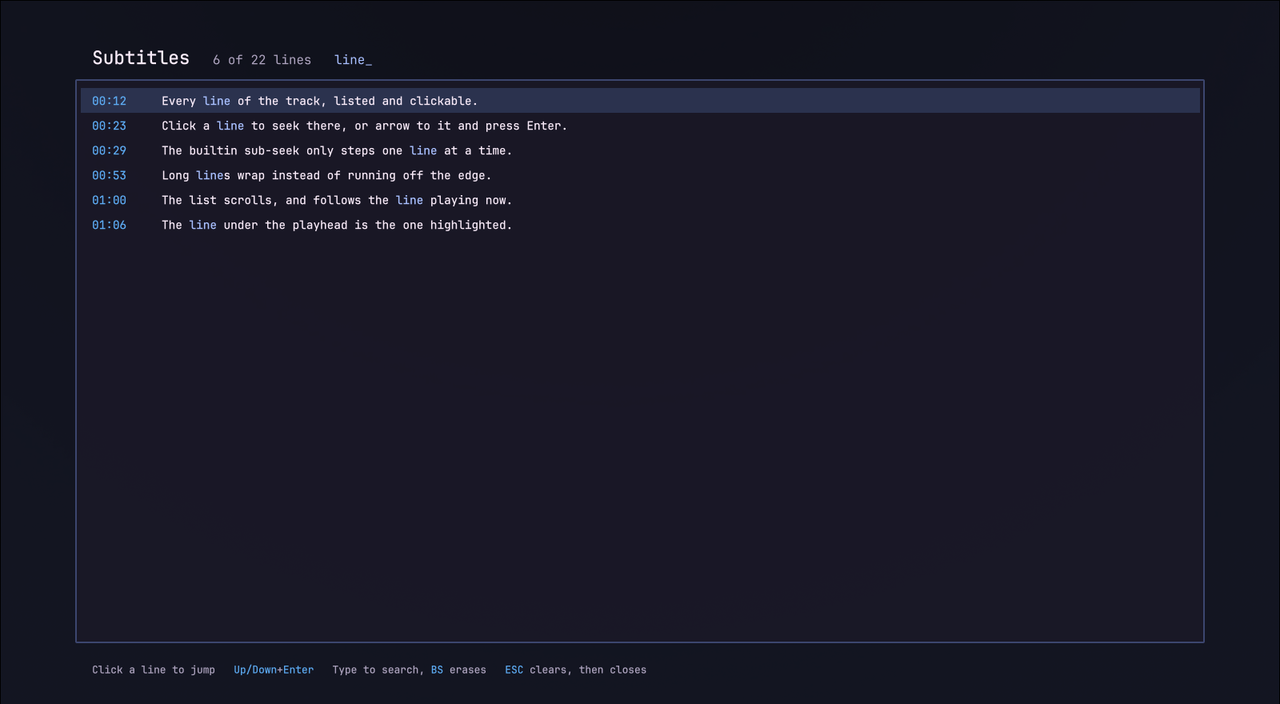
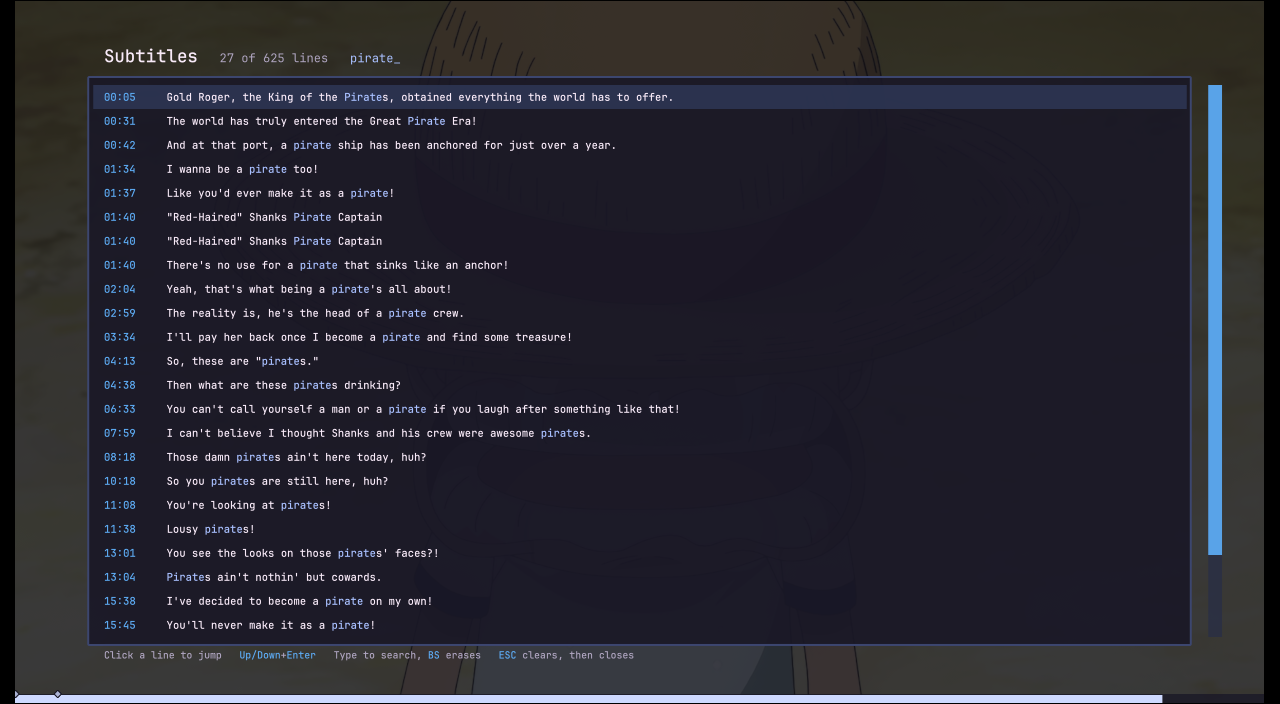
docs: retake the screenshots and fix the script credits
Every shot predated the three column list, the themed messages and the
SHIFT+ keys, so all of them were retaken against the same episode, and
the menu figures against the flat background they were framed on
originally. Two are new: the hover panel, which nothing showed before,
and the OSD message, whose section had no picture at all despite the
look being the point.

The credits were wrong. restart-mpv and watched-folder were listed as
mine inside the table of scripts I did not write; skip-chapters was
marked unattributed although it starts in this repo's own history; and
pause-indicator was credited whole to CogentRedTester when only the idea
survives, the drawing having been rewritten around the uosc icon font.
Those four moved up, so the list is ten and ten.

What "carries local patches" meant was overstated. Formatting both sides
with the same stylua settings collapses most of the apparent difference:
sub-select is byte identical to upstream, and only thumbfast, sub-export
and skip-to-silence really differ. The table now names the change per
script, and reactive_vf_bypass_keyword, which was missing entirely, is
listed.

The animated demo is dropped for now rather than left stale.

diff --git a/README.md b/README.md
@@ -1,6 +1,6 @@
 # MPV
 
-My mpv setup: player settings, a keybind map I keep expanding, a [uosc][UOSC] theme, and the script selection I actually use.
+My mpv setup: player settings, a keybind map I keep expanding, a [uosc][UOSC] theme, and the scripts I keep loaded.
 
 | Playing, with the interface showing |
 | ----------------------------------- |
@@ -23,13 +23,13 @@ Moonlight: dark, low-contrast, the interface kept thin, set in [`uosc.conf`][uos
 | `success`         | `#49ef95` | Positive feedback              |
 | `error`           | `#ca5f71` | Failures                       |
 
-Shape matters as much: `timeline_style=bar` at 20px, `top_bar=no-border`, `border_radius=6`, `font_scale=1.18`, `font_bold=yes`. Most surfaces sit under full opacity; the title is transparent, so nothing floats over the video. Menus run at `submenu=1` opacity, so every open level reads as one surface rather than fading into the background.
+Shape matters as much: `timeline_style=bar` at 20px, `top_bar=no-border`, `border_radius=6`, `font_scale=1.18`, `font_bold=yes`. Most surfaces stop short of full opacity, and the title bar is fully transparent, so nothing floats over the video. Menus run at `submenu=1`, so every open level reads as one surface instead of fading back.
 
 | At rest: the minimized timeline alone | Woken: top bar, controls, timeline |
 | ------------------------------------- | ---------------------------------- |
 | ![Minimized timeline][shot_minimal]   | ![Full interface][shot_interface]  |
 
-`TAB` toggles the interface as a whole, `SHIFT+TAB` toggles that last bar. The timeline colours the ranges it recognises, so the OP, the ED and the preview read as bands rather than as chapter ticks: `chapter_ranges` sets those colours, with `chapter_range_patterns` teaching it the shorthand titles releases actually use.
+`TAB` toggles the whole interface, `SHIFT+TAB` just that last bar. The timeline colours the ranges it recognises, so the OP, the ED and the preview read as bands rather than chapter ticks: `chapter_ranges` sets the colours, `chapter_range_patterns` teaches it the shorthand titles releases use.
 
 ### The menu patch
 
@@ -44,7 +44,7 @@ The folder is gitignored and uosc's updater overwrites it, so the change lives a
 
 ## Install
 
-Copy `portable_config/` next to `mpv.exe`. Two folders you supply.
+Copy `portable_config/` next to `mpv.exe`. You supply the two folders marked below.
 
 ```mermaid
 %%{init: {"theme": "base", "themeVariables": {"darkMode": true, "background": "#0d0e17", "textColor": "#f8eaf8", "treeView": {"labelColor": "#f8eaf8", "lineColor": "#30363d", "iconColor": "#8b949e"}}}}%%
@@ -64,11 +64,7 @@ portable_config/
 
 ## Scripts I wrote
 
-Five of them, all on the Moonlight palette.
-
-| The keyboard map and the subtitle index, in motion |
-| -------------------------------------------------- |
-| ![Keyboard map and subtitle index][shot_map_gif]   |
+Ten, the interface ones all on the Moonlight palette.
 
 ### [`keybind-visualizer.lua`][keybind_visualizer]
 
@@ -76,13 +72,17 @@ An on-screen keyboard on `F6`. Hover a key to see what it does; `ESC` closes it.
 
 Bindings are read live from `input-bindings`, so it reflects your `input.conf` plus the builtins, with no list to maintain.
 
-| Searching every binding for `sub`           |
-| ------------------------------------------- |
-| ![Keyboard map, searching][shot_map_search] |
+| Searching every binding for `sub`           | Hovering a single key                     |
+| ------------------------------------------- | ------------------------------------------- |
+| ![Keyboard map, searching][shot_map_search] | ![Keyboard map, hovering][shot_map_hover] |
 
-Just type to search them. The query matches key names, combos, descriptions and commands. Each typed word matches as a substring, as a gapped run inside a single word (`sbdly` finds `sub-delay`) or as word initials, so a scatter of letters never lights up half the keyboard. Typed characters are picked out inside each description. `BS` erases, `ESC` clears the query and then closes.
+Type to search. The query matches key names, combos, descriptions and commands. Each word matches as a substring, as a gapped run inside one word (`sbdly` finds `sub-delay`) or as word initials, so a scatter of letters never lights up half the keyboard. Matches are picked out inside each description. `BS` erases, `ESC` clears the query and then closes.
 
-A `≡` badge marks anything that also lives in the uosc menu: in the corner of the key, and beside the binding's own line in the panel. Those entries describe themselves, so the panel shows the description rather than the raw command.
+Results come as three columns: the combo, what it runs, and what that means. The command column drops the `no-osd` and `expand-properties` prefixes and the `osd_theme` message, and a binding running several commands shows the first with a `(+2)` for the rest.
+
+Descriptions come from the trailing `#` comment on each `input.conf` line, which mpv hands back through `input-bindings`. A uosc menu line describes itself after `?` instead, since its `#!` comment already holds the menu path. Only mpv's builtins, which ship without comments, come through blank.
+
+A `≡` badge marks anything that also lives in the uosc menu: in the corner of the key, and beside the binding's own line in the panel.
 
 mpv cannot detect the OS keyboard layout, so layouts live in a JSON file. Pick `ansi`, `iso`, `abnt2`, `jis`, or add your own.
 
@@ -93,11 +93,11 @@ mpv cannot detect the OS keyboard layout, so layouts live in a JSON file. Pick `
 
 ### [`sub-seek.lua`][sub_seek]
 
-A fullscreen, clickable index of every subtitle line with timestamps, on `F4`. Click a line, or arrow to it and press Enter. Unlike the builtin sub-seek, you jump anywhere instead of stepping.
+A fullscreen, clickable index of every subtitle line with timestamps, on `F4`. Click a line, or arrow to it and press Enter. The builtin sub-seek steps one line at a time; this jumps anywhere.
 
-Type to filter it down: every word typed has to appear in the line, so `long line` keeps only those carrying both, and the hits are picked out where they sit. `BS` erases, `ESC` clears the query and then closes.
+Type to filter: every word has to appear in the line, so `long line` keeps only those carrying both, and the hits are picked out where they sit. `BS` erases, `ESC` clears the query and then closes.
 
-mpv exposes no "all subtitle lines" API, so the track is dumped to a temporary `.srt` with ffmpeg and parsed; ASS and embedded subs get flattened on the way.
+mpv exposes no "all subtitle lines" API, so the track is dumped to a temporary `.srt` with ffmpeg and parsed; ASS and embedded subs are flattened on the way.
 
 | Every line of the track, the one playing highlighted | Filtered down to the lines that match |
 | --- | --- |
@@ -105,7 +105,7 @@ mpv exposes no "all subtitle lines" API, so the track is dumped to a temporary `
 
 ### [`uosc-menu.lua`][uosc_menu]
 
-uosc builds its menu from the `#!` comments in `input.conf`, but its items get no icon and say nothing about themselves. This reads the same comments, understands two more tokens, and hands uosc the finished menu through its public `open-menu` message, so no uosc file is touched.
+uosc builds its menu from the `#!` comments in `input.conf`, but those items get no icon and say nothing about themselves. This reads the same comments, understands two more tokens, and hands uosc the finished menu through its public `open-menu` message, so no uosc file is touched.
 
 | Every entry with its icon and key | The hovered entry explained under the cascade |
 | --------------------------------- | --------------------------------------------- |
@@ -132,19 +132,47 @@ g cycle interpolation   #! Video @movie > Interpolation @animation ?Resamples fr
 
 </details>
 
-Entries that carry a state draw it instead of their icon, re-read on open: `cycle <prop>`, `af toggle` and `change-list glsl-shaders toggle` become checkboxes, while entries setting the same property with `set <prop> <value>` become a radio group. Those keep the menu open when clicked and redraw in place, so a shader chain can be built in one visit.
+Entries carrying a state draw it instead of their icon, re-read on open: `cycle <prop>`, `af toggle` and `change-list glsl-shaders toggle` become checkboxes, while entries setting the same property with `set <prop> <value>` become a radio group. Those keep the menu open when clicked and redraw in place, so a shader chain can be built in one visit.
 
 Bound to `MBTN_RIGHT`, which anchors it at the pointer, and to `MENU` and the uosc menu button, which open it centred.
 
 ### [`sub-font.lua`][sub_font]
 
-One font choice, whatever the subtitle file turns out to be. Plain text subtitles carry no styling, so mpv draws them with `sub-font`; ASS scripts carry their own styles and only listen to `sub-ass-style-overrides`, which does nothing for plain text.
+One font choice, whichever kind of subtitle file turns up. Plain text subtitles carry no styling, so mpv draws them with `sub-font`; ASS scripts carry their own styles and only listen to `sub-ass-style-overrides`, which does nothing for plain text.
 
-This mirrors `sub-font` into a `FontName` override, leaving other overrides alone, so `F8` and `Subtitle > Font` land on both. `script-message-to sub_font use-file-font` drops the override again, for when an ASS script should use the typeface it names. ASS styling only gives way when `sub-ass-override` is `yes` or higher, which is what `u` toggles.
+This mirrors `sub-font` into a `FontName` override, leaving other overrides alone, so `F8` and `Subtitle > Font` land on both. `script-message-to sub_font use-file-font` drops the override again, for when an ASS script should use the typeface it names. ASS styling only gives way when `sub-ass-override` is `yes` or higher, which `u` toggles.
+
+### [`osd-theme.lua`][osd_theme]
+
+One shape for every message a keybind puts on screen, so `sub-ass-override force` never reaches the screen as bare `force`. Bindings call `script-message-to osd_theme say "<label>" "<state>" "<detail>"`. The script paints the label, colours the state green or red for a plain on or off, and sets the detail below it in a smaller, quieter line saying what the setting does.
+
+| The message a keybind leaves on screen |
+| -------------------------------------- |
+| ![Themed OSD message][shot_osd_theme]  |
+
+Colours are the blues and greys of the [Moonlight palette][moonlight] my shell prompt uses, held at the top of the file, so retinting everything is one edit there. Outline and shadow take the palette's background rather than black. Bindings prefix the mutating command with `no-osd` so mpv's own readout does not double up, and prefix the message with `expand-properties` when the state comes from a property.
 
 ### [`reset-all.lua`][reset_all]
 
-`ALT+F5` puts playback back to a fresh-start state without reloading the file: zoom, pan, aspect, rotation, panscan, speed, both delays, subtitle scale, position and visibility, and the colour controls, then clears `glsl-shaders`. Volume and mute are left alone, so a reset never blasts audio.
+`ALT+F5` returns playback to a fresh-start state without reloading the file: zoom, pan, aspect, rotation, panscan, speed, both delays, subtitle scale, position and visibility, and the colour controls, then clears `glsl-shaders`. Volume and mute are left alone, so a reset never blasts audio.
+
+### [`pause-indicator.lua`][pause_indicator]
+
+A pause glyph in the top right corner. Descended from [CogentRedTester's][crt] version, which drew a `⏸` mid-screen in whatever system font mpv fell back to, so the box and bars sat off centre.
+
+This draws the icon from the font uosc already ships, at a size and margin derived from the current OSD, so it stays symmetric and matches the rest of the interface. The original is kept in `.unused/pause-indicator-middle.lua`.
+
+### [`skip-chapters.lua`][skip_chapters]
+
+Auto-skips chapters titled as an opening, ending, credits or preview, with `F11` turning it off when a release names its chapters badly. The patterns are lowercase and anchored, so `^op$` does not swallow a chapter called "Opening Ceremony".
+
+### [`restart-mpv.lua`][restart_mpv]
+
+`F5` relaunches the player on the same file at the same position, so a config edit can be tested without losing your place.
+
+### [`watched-folder.lua`][watched_folder]
+
+`F10` toggles it; when on, a finished file is moved into a `watched` subfolder. Two known bugs: it fires when you switch files without finishing, and it skips the last file in a playlist.
 
 ## Configuration
 
@@ -159,13 +187,13 @@ This mirrors `sub-font` into a `FontName` override, leaving other overrides alon
 | -------------------------------------------- | ----------------------------------------- |
 | ![input.conf, function rows][shot_conf_keys] | ![input.conf, menu block][shot_conf_menu] |
 
-`input.conf` is the piece I put the most into: mine active among the commented ones, then the shader keys and the uosc menu. Of all the configs I read for inspiration, none were this complete.
+`input.conf` is the piece I put the most into: my active bindings among the commented ones I keep for reference, then the shader keys and the uosc menu.
 
 `profiles.conf` swaps the shader chain and subtitle styling when the path contains `Animation`, plus profiles for audio-only files and upscaling.
 
 ## Script selection
 
-Most fire off playback itself, no keypress needed.
+Most run off playback events, no keypress needed.
 
 ```mermaid
 %%{init: {"theme": "base", "themeVariables": {"darkMode": true, "background": "#0d0e17", "mainBkg": "#191726", "primaryColor": "#191726", "primaryTextColor": "#f8eaf8", "primaryBorderColor": "#7386d0", "secondaryColor": "#282e46", "secondaryTextColor": "#f8eaf8", "secondaryBorderColor": "#5dabf3", "tertiaryColor": "#3c466f", "tertiaryTextColor": "#f8eaf8", "tertiaryBorderColor": "#79c0ff", "lineColor": "#7386d0", "textColor": "#f8eaf8", "titleColor": "#f8eaf8", "nodeBorder": "#7386d0", "nodeTextColor": "#f8eaf8", "clusterBkg": "#12131f", "clusterBorder": "#30363d", "edgeLabelBackground": "#191726", "arrowheadColor": "#7386d0", "border1": "#7386d0", "border2": "#8b949e", "errorBkgColor": "#3c466f", "errorTextColor": "#f8eaf8", "fontFamily": "Mulish, system-ui, sans-serif", "fontSize": "14px"}}}%%
@@ -187,35 +215,32 @@ flowchart TB
 
 <details>
 
-<summary>The thirteen scripts I did not write</summary>
+<summary>The ten scripts I did not write</summary>
 
-| Script                                   | Source                            | What it does                                            |
-| ---------------------------------------- | --------------------------------- | ------------------------------------------------------- |
-| [`anilistUpdater`][anilist]              | [AzuredBlue][anilist_src]         | Marks the episode watched on AniList at 85%             |
-| [`autoload.lua`][autoload]               | [mpv][autoload_src]               | Queues the neighbouring files in the folder             |
-| [`chapters.lua`][chapters]               | [mar04][chapters_src]             | Create, edit and save chapters                          |
-| [`clipshot.lua`][clipshot]               | [ObserverOfTime][clipshot_src]    | Screenshot straight to the clipboard                    |
-| [`pause-indicator.lua`][pause_indicator] | [CogentRedTester][crt]            | Pause glyph in the corner                               |
-| [`reactive_vf_bypass.lua`][vf_bypass]    | [allecsc][allecsc]                | Keeps the SVP filter chain honest                       |
-| [`restart-mpv.lua`][restart_mpv]         | mine                              | Reloads the file so config edits apply                  |
-| `skip-chapters.lua`                      | unattributed                      | Auto-skips chapters matching OP, ED, credits or preview |
-| [`skip-to-silence.lua`][skip_silence]    | [detuur][detuur]                  | Jumps to the next silence, usually the OP's end         |
-| [`sub-export.lua`][sub_export]           | [kelciour][kelciour]              | Extracts the current subtitle next to the video         |
-| [`sub-select.lua`][sub_select]           | [CogentRedTester][sub_select_src] | Picks audio and subtitle tracks by rules                |
-| [`thumbfast.lua`][thumbfast]             | [po5][thumbfast_src]              | Seekbar hover thumbnails                                |
-| [`watched-folder.lua`][watched_folder]   | mine                              | Moves a finished file to a "watched" folder             |
+Each carries an added header line naming its upstream, so a file on disk always says where it came from. Beyond that, the three at the top differ; the rest are stock.
+
+| Script                                              | Source                            | What it does                                    | Local change                                                    |
+| --------------------------------------------------- | --------------------------------- | ----------------------------------------------- | ---------------------------------------------------------------- |
+| [`thumbfast.lua`][thumbfast]                        | [po5][thumbfast_src]              | Seekbar hover thumbnails                        | Expands `~~/` in `mpv_path`; a 10s watchdog kills a hung spawn  |
+| [`sub-export.lua`][sub_export]                      | [kelciour][kelciour]              | Extracts the current subtitle next to the video | Writes `.srt` for srt tracks; says why it failed; key from `input.conf` |
+| [`skip-to-silence.lua`][skip_silence]               | [detuur][detuur]                  | Jumps to the next silence, usually the OP's end | `F9` rather than `F3`                                           |
+| [`anilistUpdater`][anilist]                         | [AzuredBlue][anilist_src]         | Marks the episode watched on AniList at 85%     | Stock, but pinned far behind upstream                           |
+| [`autoload.lua`][autoload]                          | [mpv][autoload_src]               | Queues the neighbouring files in the folder     | Stock                                                           |
+| [`chapters.lua`][chapters]                          | [mar04][chapters_src]             | Create, edit and save chapters                  | Stock                                                           |
+| [`clipshot.lua`][clipshot]                          | [ObserverOfTime][clipshot_src]    | Screenshot straight to the clipboard            | Stock                                                           |
+| [`sub-select.lua`][sub_select]                      | [CogentRedTester][sub_select_src] | Picks audio and subtitle tracks by rules        | Stock                                                           |
+| [`reactive_vf_bypass.lua`][vf_bypass]               | [allecsc][allecsc]                | Keeps the SVP filter chain honest               | Stock                                                           |
+| [`reactive_vf_bypass_keyword.lua`][vf_bypass_kw]    | [allecsc][allecsc]                | The same, matched by keyword                    | Stock                                                           |
 
 </details>
 
-Several carry local patches, `thumbfast.lua` most of all.
-
-`watched-folder.lua` has two known bugs: it fires when you switch files without finishing, and it skips the last file in a playlist.
+Everything here is formatted with the same [stylua][stylua] settings as the rest of the repo, so a plain diff against upstream is mostly reindentation. Run upstream through stylua first and only the changes named above remain.
 
 <details>
 
 <summary>Scripts kept but not loaded</summary>
 
-Tried and dropped, kept for reference: `autodeint.lua`, `better-chapter.lua`, `inputevent.lua`, `memo.lua`, `mute-on-specific-subtitle-words.js`, `osc.lua`, `pause-indicator-middle.lua`, `sub-bilingual.lua`.
+Tried and dropped, kept for reference in `scripts/.unused/`, which mpv skips: `autodeint.lua`, `better-chapter.lua`, `inputevent.lua`, `memo.lua`, `mute-on-specific-subtitle-words.js`, `osc.lua`, `pause-indicator-middle.lua`, `sub-bilingual.lua`.
 
 </details>
 
@@ -226,8 +251,9 @@ Shaders, [Anime4K][Anime4k] among them, are too large to commit; [`shaders_list.
 <!-- URLS -->
 
 [shot_playing]: assets/mpv-playing.png
-[shot_map_gif]: assets/keybind-visualizer-and-sub-seek.gif
 [shot_map_search]: assets/keybind-visualizer-search.png
+[shot_map_hover]: assets/keybind-visualizer-hover.png
+[shot_osd_theme]: assets/osd-theme.png
 [shot_sub_seek]: assets/sub-seek.png
 [shot_sub_search]: assets/sub-seek-search.png
 [shot_menu_root]: assets/uosc-menu-root.png
@@ -263,6 +289,7 @@ Shaders, [Anime4K][Anime4k] among them, are too large to commit; [`shaders_list.
 [crt]: https://github.com/CogentRedTester/mpv-scripts
 [vf_bypass]: ./portable_config/scripts/reactive_vf_bypass.lua
 [allecsc]: https://github.com/allecsc/mpv-qol-scripts
+[osd_theme]: ./portable_config/scripts/osd-theme.lua
 [reset_all]: ./portable_config/scripts/reset-all.lua
 [sub_font]: ./portable_config/scripts/sub-font.lua
 [uosc_menu]: ./portable_config/scripts/uosc-menu.lua
@@ -279,3 +306,7 @@ Shaders, [Anime4K][Anime4k] among them, are too large to commit; [`shaders_list.
 [thumbfast_src]: https://github.com/po5/thumbfast
 [watched_folder]: ./portable_config/scripts/watched-folder.lua
 [icons]: https://fonts.google.com/icons?icon.set=Material+Icons&icon.style=Rounded
+[moonlight]: https://github.com/v-amorim/oh-my-posh
+[skip_chapters]: ./portable_config/scripts/skip-chapters.lua
+[vf_bypass_kw]: ./portable_config/scripts/reactive_vf_bypass_keyword.lua
+[stylua]: https://github.com/JohnnyMorganz/StyLua
